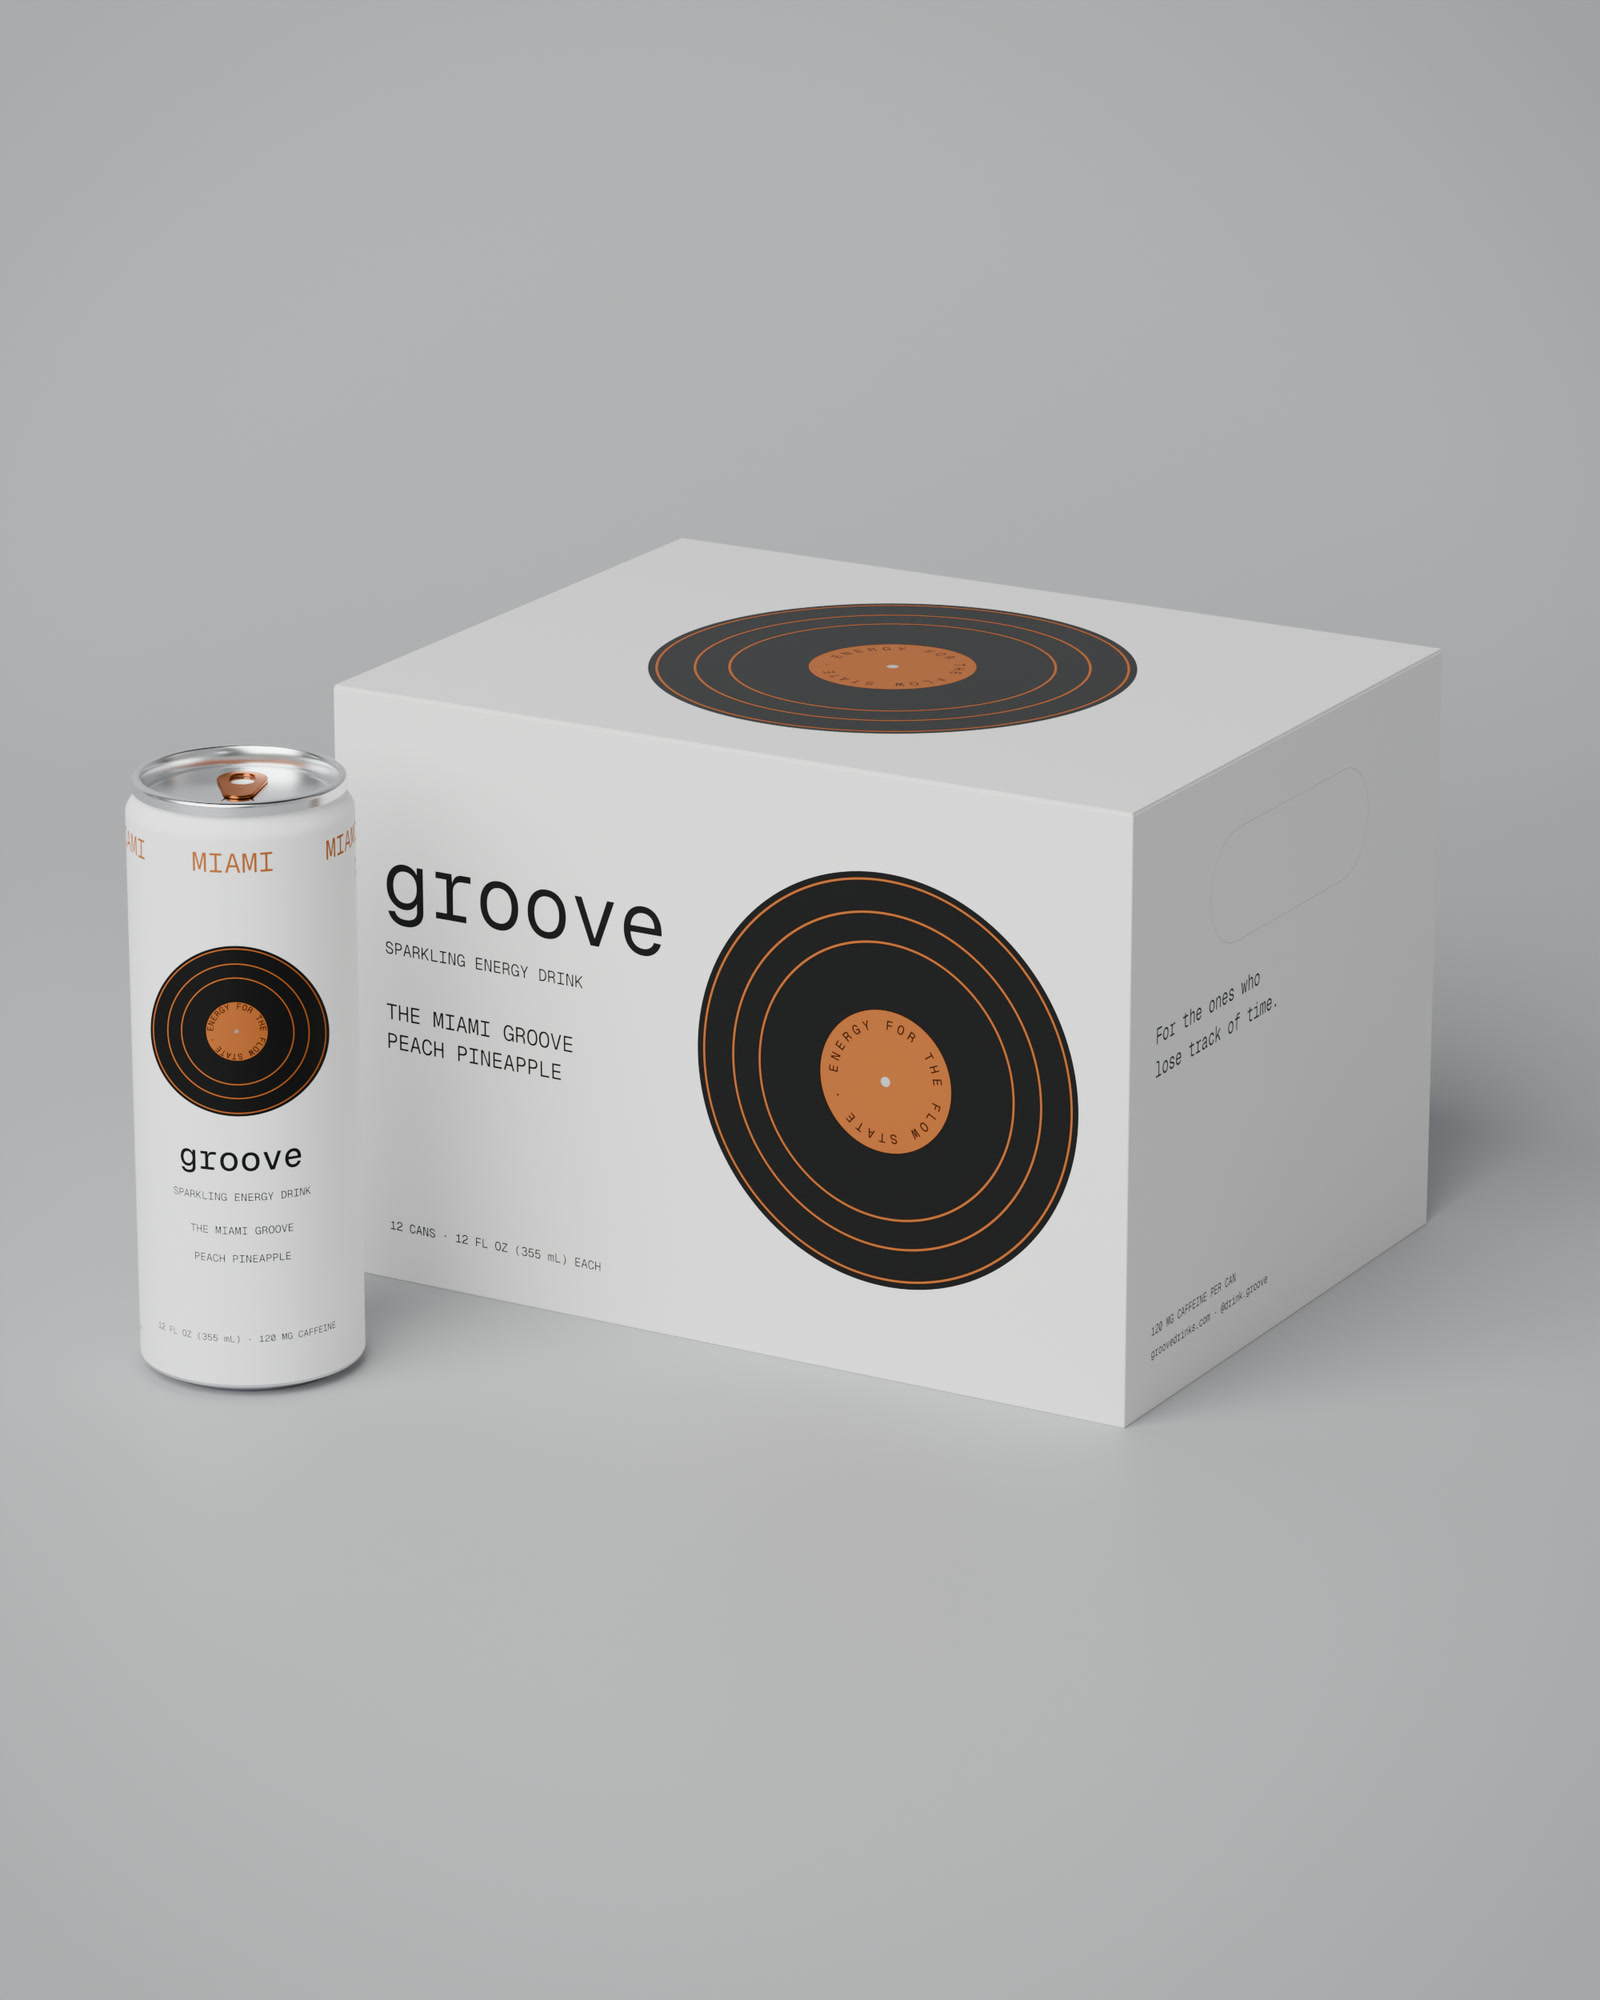
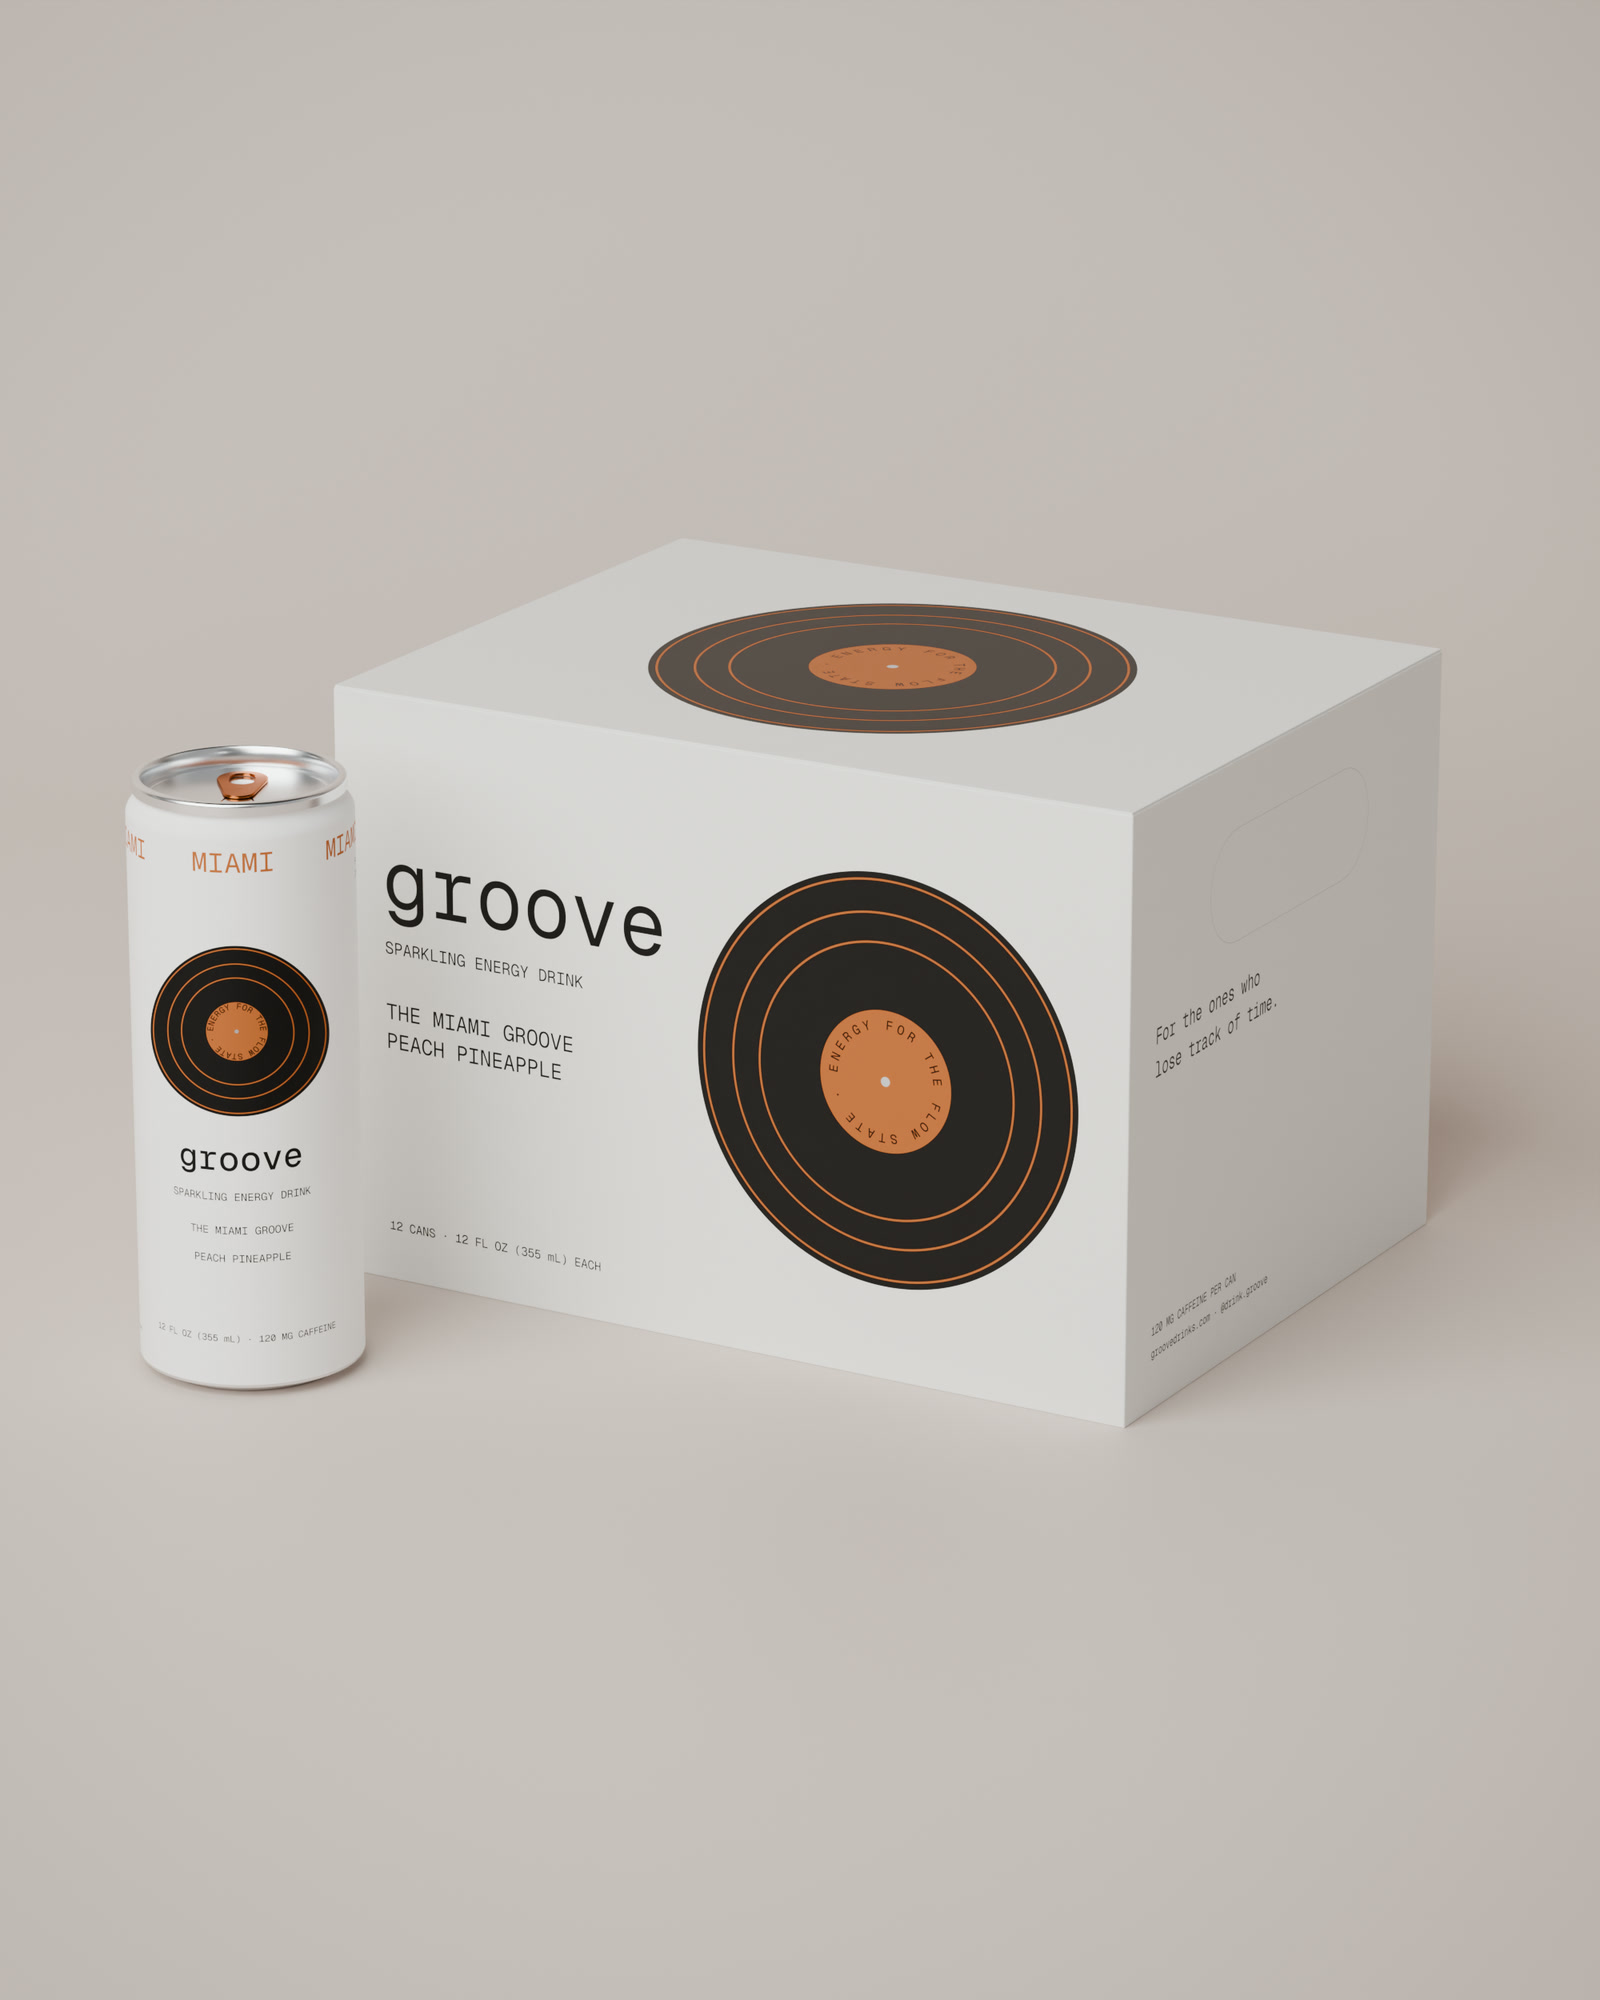
Lifestyle photos: the can in a hand on the homepage, six new pictures on /preorder, the pool on the thanks page
The homepage shows the can held in a hand. The /preorder gallery opens on the
can front on, then from above, the 12-pack on warm paper, the desk, the tennis
court, and last the line on the back of the can; the homepage's photo is not
repeated in it. The thanks page has a photo of its own (the can by a pool),
and a test keeps it out of the gallery.

The lifestyle pictures are generated images of the Miami can, cropped to 4:5.
The old grey can renders and CanImage are removed.

Changed region(s): [[0.8438, 0.434, 1.0, 0.651], [0.0938, 0.682, 0.2188, 0.713], [0.2188, 0.62, 0.25, 0.682]]

diff --git a/src/content/catalog.ts b/src/content/catalog.ts
@@ -19,14 +19,17 @@ export type ProductImage = {
   readonly height: number;
 };
 
-// A photo of the product on the grey studio stage (Blender Cycles). The can photos are
-// the same shoot as the can section's anchors (scripts/render-anchors.mts and
-// PRODUCT_SHOTS on the scroll-hero branch); the pack photo is groove-pack's `pack` shot
-// (src/render/shots.ts, box-renders e04b58a). Each 4:5 source render is committed in assets/products/ and
-// `npm run stage-photos` scales and encodes it into public/products/<name>.webp/.jpg.
+// A photo on the homepage, the /preorder gallery or the thanks page. Two kinds share the
+// shape: the 12-pack on its studio stage (Blender Cycles, groove-pack's `pack-warm` shot:
+// the pack on the warm paper of the studio can photo), and the lifestyle pictures of the
+// can (generated images, 2026-11-24, of the Miami can with MIAMI round the top and the
+// anodised tab; cropped to 4:5 and nothing else). They picture a can that is not yet
+// made, like the renders, so no caption calls one a photograph of the product. Each 4:5
+// source is committed in assets/products/ and `npm run stage-photos` scales and encodes
+// it into public/products/<name>.webp/.jpg.
 export type StagePhoto = {
   readonly name: string;
-  // The render it is made from, in assets/products/.
+  // The picture it is made from, in assets/products/.
   readonly source: string;
   readonly webp: string;
   readonly jpg: string;
@@ -50,19 +53,20 @@ const stagePhoto = (name: string, source: string, alt: string, caption: string):
   ...STAGE_PHOTO_SIZE,
 });
 
+// The can in a hand, against a sunlit wall: its size, and the whole label, at a glance.
+const MIAMI_HAND = stagePhoto(
+  "miami-hand",
+  "lifestyle-hand.png",
+  "A hand holding the Miami Groove can against a sunlit cream wall: a white can with MIAMI round the top, a black record with a peach label, and a peach tab.",
+  "The Miami Groove. Peach pineapple.",
+);
+
 // The 12-pack's box at three-quarter with a can standing beside it: what a pre-order buys.
 const MIAMI_PACK = stagePhoto(
   "miami-pack-stage",
-  "pack.png",
+  "pack-warm.png",
   "The Miami Groove 12-pack: a white box with a black record on its side, and a white can beside it with MIAMI round the top and a peach tab.",
   "Twelve cans to a box.",
-);
-
-const MIAMI_CAN = stagePhoto(
-  "miami-can-stage",
-  "can.png",
-  "The Miami Groove can: matte white, with a black record and a peach label. Peach pineapple sparkling energy drink.",
-  "The Miami Groove. Peach pineapple.",
 );
 
 export type Product = {
@@ -75,12 +79,17 @@ export type Product = {
   readonly lookupKey: string;
   readonly weightOz: number;
   readonly image: ProductImage;
-  // The one photo on the homepage, under the hero, beside the pre-order button: the
-  // 12-pack, box and can (2026-11-10). The line beside it says what's in the box.
+  // The one photo on the homepage, under the hero, beside the pre-order button: the can
+  // in a hand (2026-11-26; the 12-pack before). The line beside it on the homepage says what's in the box.
   readonly showcase: StagePhoto;
-  // The photos on /preorder, in order: the pack (the homepage's photo), then the can
-  // whole, closer, closest. The box joined on 2026-11-10.
+  // The photos on /preorder, in order: the can alone (front on, then from above), the
+  // 12-pack a pre-order buys, the can at work and outdoors, and last the line on the back
+  // of the can. The homepage's photo is not among them: the buyer has just seen it
+  // (Faris, 2026-11-26).
   readonly gallery: readonly [StagePhoto, ...StagePhoto[]];
+  // The photo beside the order on the thanks page: one the buyer has not seen yet, so
+  // it is never one of the gallery's (2026-11-26). Miami: the can by a pool.
+  readonly thanks: StagePhoto;
   // The flavor's color: the ink printed on the can and the box (Miami: PANTONE 1565 C,
   // #FFA06A on screens, the same orange as the record in the Instagram carousels). The
   // stage photos show it darker (#B26C41) because of the studio light; the page uses the
@@ -117,16 +126,34 @@ export const CATALOG: readonly Product[] = [
       width: 900,
       height: 2501,
     },
-    showcase: MIAMI_PACK,
+    showcase: MIAMI_HAND,
     gallery: [
-      MIAMI_PACK,
-      MIAMI_CAN,
       stagePhoto(
-        "miami-record-stage",
-        "can-record.png",
-        "Close up of the can's record: black grooves with peach rings, and “Energy for the flow state” around the label.",
+        "miami-studio",
+        "lifestyle-studio.png",
+        "The Miami Groove can standing on a warm grey studio paper, front on: MIAMI, the record, groove, sparkling energy drink, peach pineapple, 12 fl oz, 120 mg caffeine.",
+        "12 fl oz. 120 mg caffeine.",
+      ),
+      stagePhoto(
+        "miami-studio-above",
+        "lifestyle-studio-above.png",
+        "The Miami Groove can on warm grey studio paper, seen from above and to one side: the peach tab on the lid, MIAMI round the top, and the black record.",
+        "A peach tab on top.",
+      ),
+      MIAMI_PACK,
+      stagePhoto(
+        "miami-desk",
+        "lifestyle-desk.png",
+        "The Miami Groove can on a marble counter beside a laptop, with hands typing behind it.",
         "Energy for the flow state.",
       ),
+      stagePhoto(
+        "miami-tennis",
+        "lifestyle-tennis.png",
+        "A hand resting the Miami Groove can against a tennis net, the green court behind it in low sun.",
+        "Wherever the afternoon goes.",
+      ),
+      // The line printed on the back of the can, close (a Blender render, like the pack).
       stagePhoto(
         "miami-line-stage",
         "can-line.png",
@@ -134,9 +161,18 @@ export const CATALOG: readonly Product[] = [
         "For the ones who lose track of time.",
       ),
     ],
+    thanks: stagePhoto(
+      "miami-pool",
+      "lifestyle-pool.png",
+      "The Miami Groove can standing on the pale stone edge of a swimming pool, bright blue water behind it in full sun.",
+      "Order received.",
+    ),
     accent: "#ffa06a",
   },
 ];
+
+// Every stage photo a product uses, on any page: what gets encoded and checked.
+export const stagePhotosOf = (p: Product): readonly StagePhoto[] => [p.showcase, ...p.gallery, p.thanks];
 
 export const productBySku = (catalog: readonly Product[], sku: string): Product | undefined =>
   catalog.find((p) => p.sku === sku);

diff --git a/src/app/globals.css b/src/app/globals.css
@@ -12,9 +12,10 @@
   --danger: #c8102e;
   /* The can is near-white (#f0f0f0); it stands on this quiet grey, as in the can viewer. */
   --stage: #f3f3f3;
-  /* The studio photos' grey paper (the homepage can), sampled from the renders, so the
-     tile is the photo's own colour before the image arrives. */
-  --photo-stage: #c9c9ca;
+  /* The photos' warm paper (the studio can's backdrop, #D8D0CD, which the pack's stage
+     is rendered to sit beside), so a tile is near its photo's colour before the image
+     arrives. */
+  --photo-stage: #d8d0cd;
   --gutter: clamp(1rem, 4vw, 3rem);
   /* Critically damped, ~0.3s response (Apple default UI spring, approximated). */
   --ease-settle: cubic-bezier(0.22, 1, 0.36, 1);
@@ -861,19 +862,22 @@ body {
   padding-block: 0 clamp(4rem, 10vh, 8rem);
 }
 
-.buy-can {
-  display: flex;
-  justify-content: center;
-  background: var(--stage);
-  /* Full-bleed on phones: out past the page gutter to both edges. */
-  margin-inline: calc(-1 * var(--gutter));
-  /* The stage, not just the can, is capped: about half a phone screen. */
+/* The thanks page's photo: the 4:5 tile of the gallery, the same height on a phone. */
+.buy-shot {
+  display: block;
   height: min(52svh, 34rem);
-  padding-block: 1rem;
+  aspect-ratio: 4 / 5;
+  max-width: 100%;
+  margin-inline: auto;
+  background: var(--photo-stage);
+  border-radius: 1rem;
+  overflow: hidden;
 }
-.buy-can img {
+.buy-shot img {
+  display: block;
+  width: 100%;
   height: 100%;
-  width: auto;
+  object-fit: cover;
 }
 
 .buy-panel {
@@ -906,13 +910,11 @@ body {
     grid-template-columns: minmax(0, 1fr) minmax(0, 1fr);
     align-items: start;
   }
-  .buy-can {
+  .buy-shot {
     position: sticky;
     top: 1rem;
-    margin-inline: 0;
-    border-radius: 1.5rem;
     height: min(calc(100svh - 7rem), 46rem);
-    padding-block: clamp(1.5rem, 5vh, 3.5rem);
+    border-radius: 1.5rem;
   }
   .buy-panel {
     margin-inline: 0;

diff --git a/src/content/__tests__/showcase.test.ts b/src/content/__tests__/showcase.test.ts
@@ -1,11 +1,11 @@
 import { existsSync } from "node:fs";
 import { join } from "node:path";
 import { describe, expect, it } from "vitest";
-import { CATALOG, type StagePhoto } from "../catalog";
+import { CATALOG, stagePhotosOf, type StagePhoto } from "../catalog";
 import { encodes } from "../../../scripts/stage-photos.mts";
 
 const publicFile = (url: string) => join(process.cwd(), "public", url);
-const photos = (): readonly StagePhoto[] => CATALOG.flatMap((p) => [p.showcase, ...p.gallery]);
+const photos = (): readonly StagePhoto[] => CATALOG.flatMap(stagePhotosOf);
 
 describe("stage photos", () => {
   it("point at encoded files in public/ and a committed source render, both formats", () => {
@@ -18,13 +18,16 @@ describe("stage photos", () => {
   it("are 4:5, the shape of the tiles they fill", () => {
     for (const s of photos()) expect(s.width / s.height, s.name).toBeCloseTo(4 / 5, 9);
   });
-  it("lead the gallery with the homepage photo, and no photo twice", () => {
+  it("show no photo twice in the gallery, and not the homepage's, which the buyer has just seen", () => {
     for (const p of CATALOG) {
-      expect(p.gallery[0]).toBe(p.showcase);
+      expect(p.gallery.map((g) => g.name), p.sku).not.toContain(p.showcase.name);
       expect(new Set(p.gallery.map((g) => g.name)).size, p.sku).toBe(p.gallery.length);
     }
   });
-  it("are each encoded once, even when the homepage and the gallery share one", () => {
+  it("keep the thanks page's photo out of the gallery, so it is new to the buyer", () => {
+    for (const p of CATALOG) expect(p.gallery.map((g) => g.name), p.sku).not.toContain(p.thanks.name);
+  });
+  it("are each encoded once, even when two pages share one", () => {
     const e = encodes(photos(), "src", "out", "tmp");
     expect(e.map((x) => x.webp)).toEqual([...new Set(photos().map((s) => `out/${s.name}.webp`))]);
   });

diff --git a/src/app/thanks/page.tsx b/src/app/thanks/page.tsx
@@ -1,6 +1,6 @@
 import type { Metadata } from "next";
 import Link from "next/link";
-import { CanImage } from "@/components/product/CanImage";
+import { StagePicture } from "@/components/product/StagePicture";
 import { CATALOG } from "@/content/catalog";
 import { PREORDER } from "@/content/preorder";
 import { SITE } from "@/content/site";
@@ -49,7 +49,7 @@ export default async function Thanks({ searchParams }: PageProps<"/thanks">) {
       </div>
       {order.ok ? (
         <div className="buy">
-          <CanImage image={order.value.lines[0].product.image} className="buy-can" eager />
+          <StagePicture photo={order.value.lines[0].product.thanks} className="buy-shot" eager />
           <section className="buy-panel">
             <h1 className="display">{thanks.title}</h1>
             <ul className="thanks-lines">
@@ -77,13 +77,18 @@ export default async function Thanks({ searchParams }: PageProps<"/thanks">) {
           </section>
         </div>
       ) : (
-        <section className="not-found">
-          <h1 className="display">{thanks.title}</h1>
-          <p className="lede">{thanks.lede}</p>
-          <Link href="/" className="not-found-link">
-            {thanks.back} →
-          </Link>
-        </section>
+        // The order couldn't be read back (no session id, or Stripe didn't answer): the
+        // same page without the lines only Stripe knows, with the same photo.
+        <div className="buy">
+          <StagePicture photo={CATALOG[0].thanks} className="buy-shot" eager />
+          <section className="buy-panel">
+            <h1 className="display">{thanks.title}</h1>
+            <p className="lede">{thanks.lede}</p>
+            <Link href="/" className="not-found-link">
+              {thanks.back} →
+            </Link>
+          </section>
+        </div>
       )}
     </main>
   );
